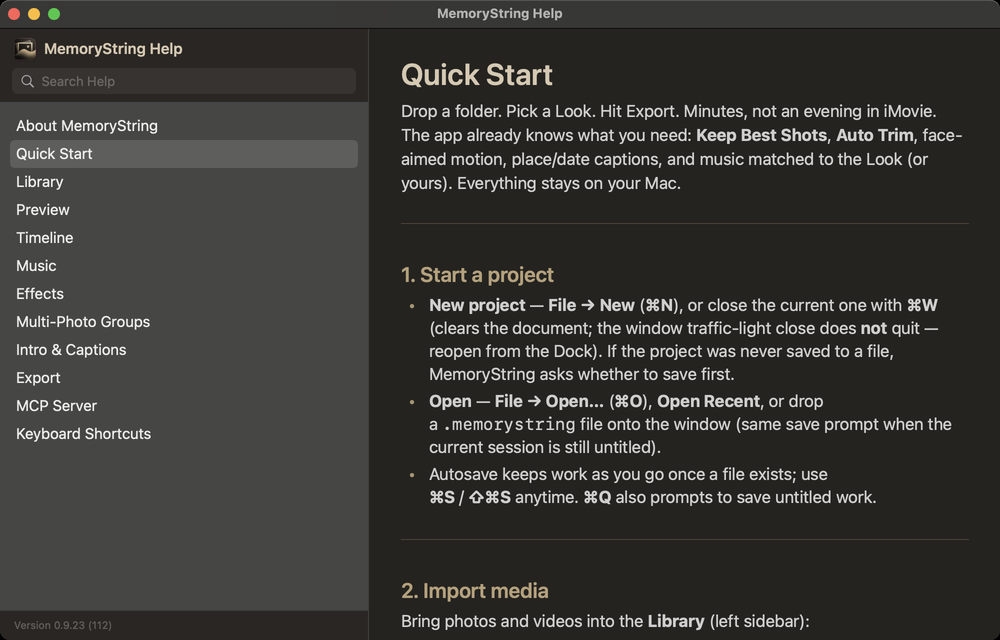
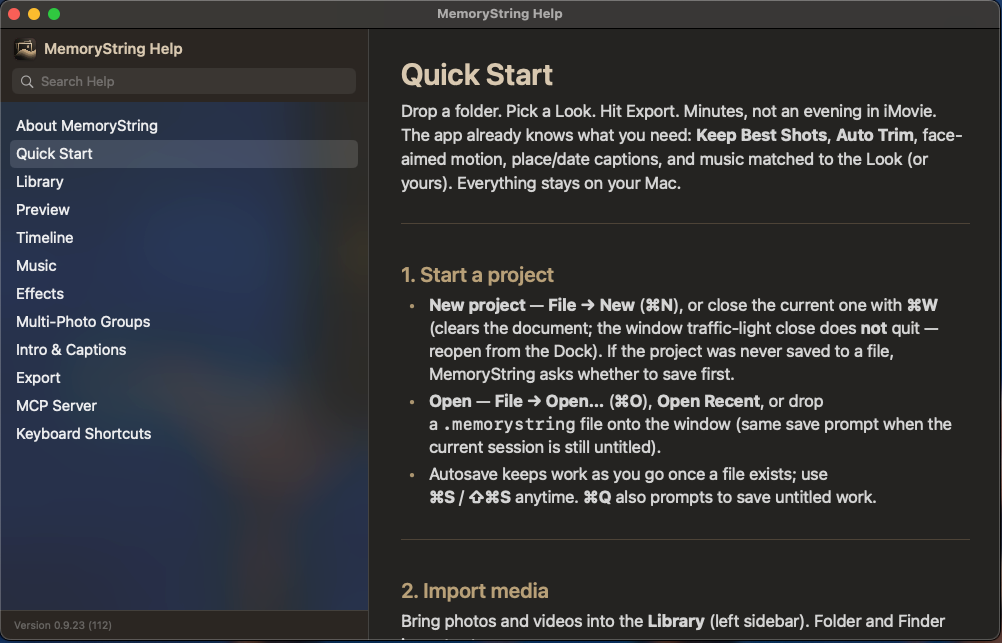
Refresh MCP, Help, and Motion inspector stills.
Zacky’s 0.9.23 captures replace placeholders; Timeline section uses Motion panel (no Fit Show to Music).

diff --git a/timeline.md b/timeline.md
@@ -101,7 +101,7 @@ Inspector → **Motion** → **Timeline**:
 - **Shuffle Slides** — pauses playback, randomizes photo order, seeks to the start
 - **Shuffle Transitions** — keeps photo order; starts a fresh deal of single-slide cuts, group kinds, and window positions. Cadence, which group types are on, and card counts stay. Hand-picked Slide Transitions: asks before clearing. Also Library **⋯**:
 
-![Library ⋯: Shuffle Transitions, Reset Slide Durations, Show Transition Names](../.gitbook/assets/library-menu-options.png)
+![Motion → Timeline: Sort by Date Taken, Shuffle Slides, Shuffle Transitions, Reset Slide Durations](../.gitbook/assets/inspector-motion-timeline.png)
 
 - **Reset Slide Durations**
 

diff --git a/organizing.md b/organizing.md
@@ -37,6 +37,8 @@ Library **⋯**, Inspector → **Motion → Timeline**, or right-click empty Lib
 
 ![Library ⋯: Shuffle Transitions, Reset Slide Durations, Show Transition Names](.gitbook/assets/library-menu-options.png)
 
+![Motion → Timeline: Sort by Date Taken, Shuffle Slides, Shuffle Transitions, Reset Slide Durations](../.gitbook/assets/inspector-motion-timeline.png)
+
 **Reset Slide Durations** (same ⋯ and Motion → Timeline) restores default still timing.
 
 Clicking a **Look** chip also re-deals transitions (and related Style). See [Looks](style/looks.md#the-eight-chips).
